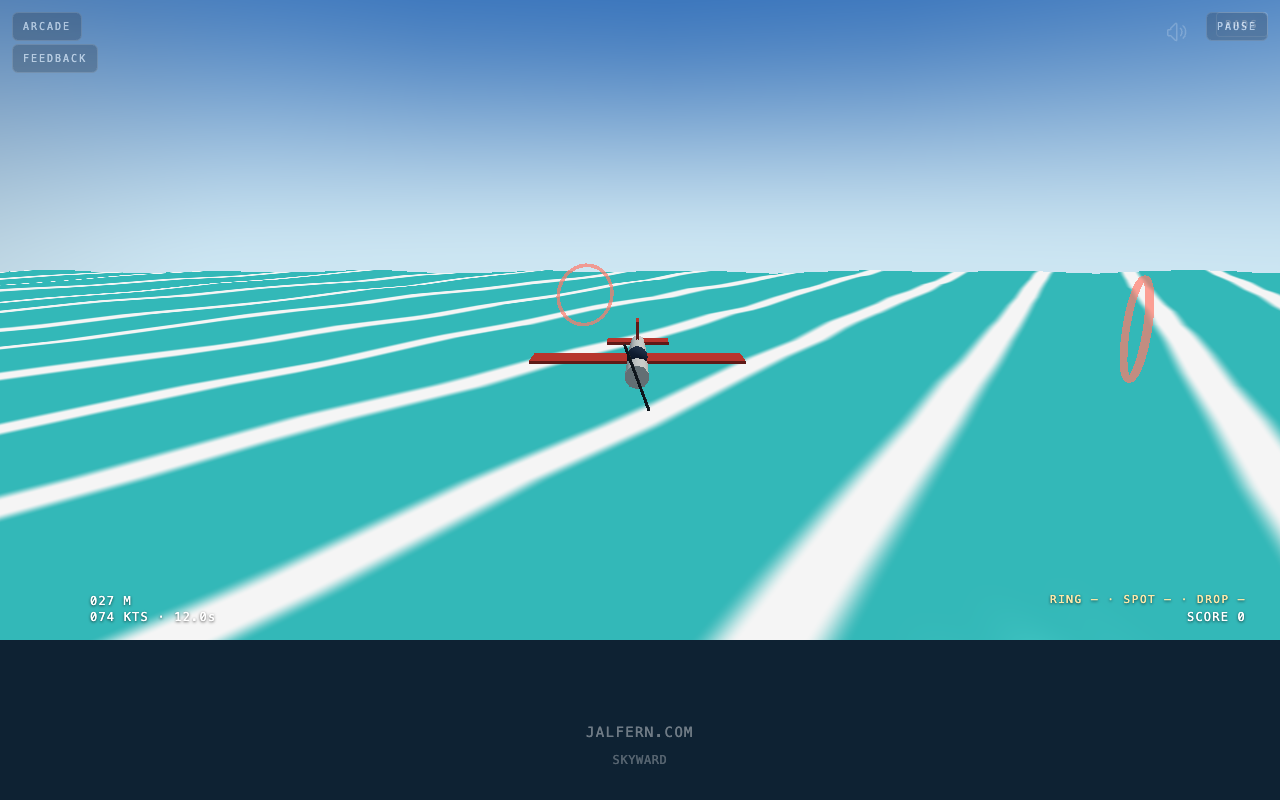
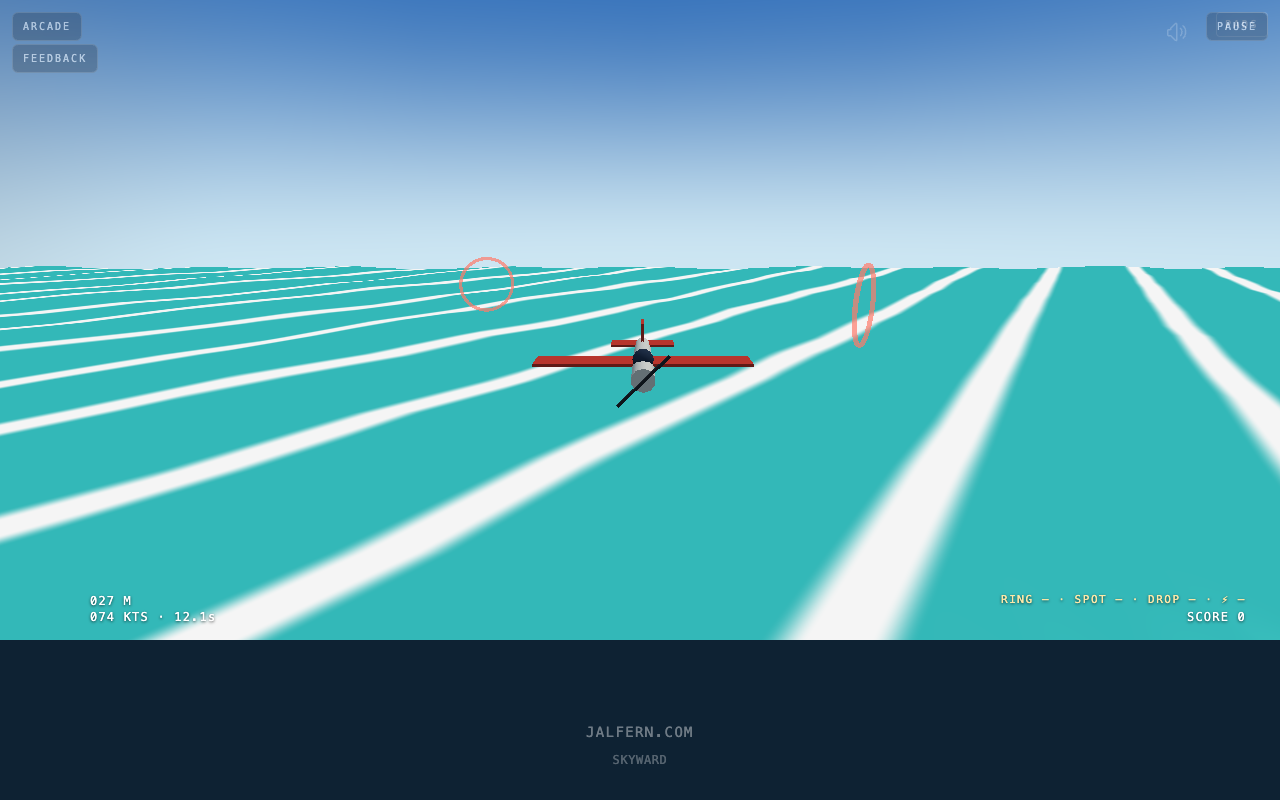
Skyward rung 2 visuals: violet storm gates + THUNDERPASS beacon, fog closure in the cell, drifting cumuli, HUD chip/hints/badge, registry copy, browser drive + frame strip

Changed region(s): [[0.0, 0.3125, 1.0, 0.8125], [0.7812, 0.7188, 0.9688, 0.7812], [0.0, 0.5312, 0.0312, 0.5625]]

diff --git a/src/games/Skyward/index.jsx b/src/games/Skyward/index.jsx
@@ -50,7 +50,7 @@ const SkywardGame = () => {
 <div data-h="speed" style="position:absolute;left:90px;bottom:14px;letter-spacing:.1em">000 KTS</div>
 <div data-h="alt" style="position:absolute;left:90px;bottom:30px;letter-spacing:.1em">000 M</div>
 <div data-h="score" style="position:absolute;right:34px;bottom:14px;letter-spacing:.1em;text-align:right">SCORE 0</div>
-<div data-h="chips" style="position:absolute;right:34px;bottom:32px;letter-spacing:.14em;text-align:right;font-size:11px;color:#ffe9a8">RING — · SPOT — · DROP —</div>
+<div data-h="chips" style="position:absolute;right:34px;bottom:32px;letter-spacing:.14em;text-align:right;font-size:11px;color:#ffe9a8">RING — · SPOT — · DROP — · ⚡—</div>
 <div data-h="banner" style="position:absolute;left:50%;top:56px;transform:translateX(-50%);font-size:22px;letter-spacing:.22em;opacity:0;transition:opacity .25s;text-align:center"></div>
 <div data-h="hint" style="position:absolute;left:50%;bottom:70px;transform:translateX(-50%);font-size:11px;letter-spacing:.18em;color:#cfe6ff;opacity:.9;text-align:center"></div>`
         wrap.style.position = 'relative'
@@ -70,7 +70,11 @@ const SkywardGame = () => {
         const sfxFor = (g, e) => {
             switch (e.kind) {
                 case 'ring': tone(660 + e.idx * 60, 0.09, 'square', 0.09); break
-                case 'start': sweep(320, 780, 0.28, 'triangle', 0.1); break
+                case 'gate': tone(392 + e.idx * 74, 0.12, 'triangle', 0.1); break
+                case 'start':
+                    if (e.event === 'THUNDERPASS') audioController.playFilteredNoise(1.1, 0.32, 90) // thunderclap entrance
+                    else sweep(320, 780, 0.28, 'triangle', 0.1)
+                    break
                 case 'finish': tone(660, 0.1); tone(880, 0.1, 'square', 0.09, 0.11); tone(1174, 0.16, 'square', 0.09, 0.22); break
                 case 'graduate': audioController.playFanfare(); break
                 case 'crash': audioController.playFilteredNoise(0.4, 0.3, 260); break
@@ -90,6 +94,7 @@ const SkywardGame = () => {
             for (const e of g.events) {
                 sfxFor(g, e)
                 if (e.kind === 'ring') banner(`RING ${e.idx}/8`, 1.1)
+                if (e.kind === 'gate') banner(e.idx === 1 ? 'GATE 1/5 — ENTER THE STORM' : `GATE ${e.idx}/5`, 1.2)
                 if (e.kind === 'start') banner(e.event, 2.2)
                 if (e.kind === 'finish') banner(`${e.event} — ${e.gained}`, 2.6)
                 if (e.kind === 'graduate') banner(`LICENSE: ${e.license} — ${e.score}`, 4)
@@ -174,7 +179,7 @@ const SkywardGame = () => {
                         step(gs, padNow())
                         drain(gs)
                         if (gs.done) {
-                            setOver({ score: gs.score, license: gs.license })
+                            setOver({ score: gs.score, license: gs.license, stormWings: gs.stormWings })
                             setMode('over')
                         }
                     } else {
@@ -194,13 +199,14 @@ const SkywardGame = () => {
             const shown = sc === 'attract' ? null : gs
             E.score.textContent = shown ? `SCORE ${shown.score}` : ''
             E.chips.textContent = shown
-                ? `RING ${shown.grad.ring ?? '—'} · SPOT ${shown.grad.spot ?? '—'} · DROP ${shown.grad.drop ?? '—'}`
+                ? `RING ${shown.grad.ring ?? '—'} · SPOT ${shown.grad.spot ?? '—'} · DROP ${shown.grad.drop ?? '—'} · ⚡ ${shown.stormWings ? shown.grad.pass : '—'}`
                 : ''
-            if (sc === 'play' && shown.phase === 'ring') E.speed.textContent += ` · ${shown.eventT.toFixed(1)}s`
+            if (sc === 'play' && (shown.phase === 'ring' || shown.phase === 'pass')) E.speed.textContent += ` · ${shown.eventT.toFixed(1)}s`
             const hint = sc === 'play'
-                ? (shown.marker ? `${shown.marker === 'ring' ? 'RING RUN' : shown.marker === 'spot' ? 'SPOT LANDING' : 'TARGET DROP'} — PRESS SPACE`
+                ? (shown.marker ? `${shown.marker === 'ring' ? 'RING RUN' : shown.marker === 'spot' ? 'SPOT LANDING' : shown.marker === 'pass' ? 'THUNDERPASS' : 'TARGET DROP'} — PRESS SPACE`
                     : shown.phase === 'drop' ? 'A THRUST · B DROP · land at the pads'
-                        : shown.phase === 'free' ? `CRUISE · markers glow near launches · B at school recycles craft` : '')
+                        : shown.phase === 'pass' ? `GATE ${shown.passIdx}/5 · fight the gusts · the core pulls down`
+                            : shown.phase === 'free' ? `CRUISE · markers glow near launches · B at school recycles craft` : '')
                 : ''
             if (E.hint.textContent !== hint) E.hint.textContent = hint
             if (bannerRef.current.until && performance.now() > bannerRef.current.until) {
@@ -248,13 +254,14 @@ const SkywardGame = () => {
                 getState: () => [
                     `screen=${screenRef.current} phase=${gs.phase} craft=${gs.craft}`,
                     `pos=${gs.p.x.toFixed(0)},${gs.p.y.toFixed(0)},${gs.p.z.toFixed(0)} hdg=${(gs.heading * 57.3).toFixed(0)}° spd=${gs.speed.toFixed(1)} vy=${gs.vy.toFixed(1)}`,
-                    `rings=${gs.ringsPassed} dropIdx=${gs.dropIdx} grad=${JSON.stringify(gs.grad)} score=${gs.score}`,
+                    `rings=${gs.ringsPassed} pass=${gs.passIdx} dropIdx=${gs.dropIdx} grad=${JSON.stringify(gs.grad)} score=${gs.score}`,
                     `marker=${gs.marker ?? '-'} crashes=${gs.crashes} seed=${gs.seed}`,
                 ],
                 actions: [
                     { label: 'ring', run: () => (checkout(gs, 'ring'), 'ring run') },
                     { label: 'spot', run: () => (checkout(gs, 'spot'), 'spot') },
                     { label: 'drop', run: () => (checkout(gs, 'drop'), 'drop') },
+                    { label: 'thunder', run: () => (checkout(gs, 'pass'), 'thunderpass') },
                     { label: 'recycle', run: () => (recycleCraft(gs), gs.craft) },
                     { label: 'graduate', run: () => { gs.grad = { ring: 800, spot: 700, drop: 999 }; gs.score = 2499; gs.done = true; gs.license = 'ACE'; setOver({ score: 2499, license: 'ACE' }); setMode('over') } },
                 ],
@@ -294,6 +301,9 @@ const SkywardGame = () => {
             {over && (
                 <div className="absolute inset-0 flex flex-col items-center justify-center bg-black/60">
                     <div className="text-3xl font-black tracking-[0.25em] text-amber-300">{over.license} LICENSE</div>
+                    {over.stormWings && (
+                        <div className="mt-2 text-sm font-bold tracking-[0.3em] text-violet-300">⚡ STORM WINGS ⚡</div>
+                    )}
                     <div className="mt-3 text-lg tracking-[0.2em] text-white">FINAL SCORE {over.score}</div>
                     <div className="mt-2 text-xs tracking-[0.2em] text-white/70">INSTRUCTORS VOSS · NIMBUS · PIP SALUTE YOU</div>
                     <div className="mt-8 text-[11px] tracking-[0.25em] text-white/70 animate-pulse">ANY KEY · TAP TO FLY AGAIN</div>

diff --git a/src/games/Skyward/renderer.js b/src/games/Skyward/renderer.js
@@ -198,9 +198,11 @@ void main(){
         return sp
     }
     const rngp = (n) => ((Math.sin(n * 127.1) * 43758.5453) % 1 + 1) % 1
+    const thermalClouds = []
     world.thermals.forEach((c, i) => {
-        addCloud(c.x, 96 + i * 7, c.z, 110, 0xffffff)
-        addCloud(c.x + 26, 104 + i * 5, c.z - 18, 74, 0xf4f8ff)
+        const a = addCloud(c.x, 96 + i * 7, c.z, 110, 0xffffff)
+        const b = addCloud(c.x + 26, 104 + i * 5, c.z - 18, 74, 0xf4f8ff)
+        thermalClouds.push({ c, sprites: [a, b] })
     })
     for (let i = 0; i < 14; i++) {
         const a = rngp(i * 3 + 1) * Math.PI * 2
@@ -247,6 +249,17 @@ void main(){
         return mesh
     })
     const padBands = []
+    // thunderpass gates — violet torus rings through the cell, facing along
+    // the line (same orientation discipline as the bay rings)
+    const passMeshes = world.passRings.map((p, i) => {
+        const prev = i > 0 ? world.passRings[i - 1] : { x: p.x - 100, z: p.z }
+        const next = i < world.passRings.length - 1 ? world.passRings[i + 1] : { x: p.x + 100, z: p.z }
+        const mesh = new THREE.Mesh(new THREE.TorusGeometry(11, 0.6, 8, 36), new THREE.MeshBasicMaterial({ color: 0xb39cff, transparent: true, opacity: 0.8 }))
+        mesh.position.set(p.x, p.y, p.z)
+        mesh.rotation.y = Math.atan2(next.x - prev.x, next.z - prev.z)
+        scene.add(mesh)
+        return mesh
+    })
     for (let i = 0; i < 4; i++) {
         const rr = [4.5, 9, 15, 24][i]
         const band = new THREE.Mesh(
@@ -286,6 +299,7 @@ void main(){
         ring: markerBeam(r0.x, r0.z - 150, 0xffd23f, 'RING RUN', 0),
         spot: markerBeam(world.launch.x, world.launch.z, 0x59d7ff, 'SPOT LANDING'),
         drop: markerBeam(world.school.x + 30, world.school.z + 40, 0x6ee7a0, 'TARGET DROP'),
+        pass: markerBeam(world.passStart.x, world.passStart.z, 0xb06bff, 'THUNDERPASS'),
     }
 
     // dock
@@ -403,7 +417,11 @@ void main(){
         seaMat.uniforms.uCam.value.copy(camera.position)
         skyMat.uniforms.uFlash.value = g.crashes && world.stormFlash(t) ? world.stormFlash(t) : world.stormFlash(t)
         const flash = world.stormFlash(t)
-        hemi.intensity = 1.1 + flash * 1.4
+        // inside the cell the grey closes in: fog shuts down to gate distance
+        const sS = g.stormS || 0
+        hemi.intensity = 1.1 + flash * 1.4 - sS * 0.5
+        scene.fog.near = lerp(600, 130, sS)
+        scene.fog.far = lerp(2100, 760, sS)
 
         // rain
         const rp = rainGeo.attributes.position
@@ -414,9 +432,18 @@ void main(){
         }
         rp.needsUpdate = true
 
-        // thermals pulse
+        // thermals pulse + drift (rung 2: the cloud IS the lift, same thermalPos)
         for (let i = 0; i < thermCols.length; i++) {
-            const pulse = world.thermalLift(world.thermals[i].x, world.thermals[i].z, t)
+            const th = world.thermals[i]
+            const tp = world.thermalPos(th, t)
+            const tc = thermalClouds[i]
+            if (tc) {
+                tc.sprites[0].position.x = tp.x; tc.sprites[0].position.z = tp.z
+                tc.sprites[1].position.x = tp.x + 26; tc.sprites[1].position.z = tp.z - 18
+            }
+            thermCols[i].position.x = tp.x
+            thermCols[i].position.z = tp.z
+            const pulse = world.thermalLift(tp.x, tp.z, t)
             thermCols[i].material.opacity = 0.035 + pulse * 0.02
             thermCols[i].rotation.y = t * 0.1
         }
@@ -430,12 +457,20 @@ void main(){
             else if (doneI && g.phase === 'ring') { m.color.setHex(0x3ddc84); m.opacity = 0.8; m.transparent = true }
             else { m.color.setHex(0xff7a6a); m.opacity = 0.7; m.transparent = true }
         }
+        // thunderpass gates: same active/passed language as the bay rings
+        for (let i = 0; i < passMeshes.length; i++) {
+            const m = passMeshes[i].material
+            if (g.phase === 'pass' && i === g.passIdx) { m.color.setHex(0xffd23f); m.opacity = 0.85 + 0.15 * Math.sin(t * 7) }
+            else if (g.phase === 'pass' && i < g.passIdx) { m.color.setHex(0x3ddc84); m.opacity = 0.8 }
+            else if (g.stormWings) { m.color.setHex(0x3ddc84); m.opacity = 0.55 }
+            else { m.color.setHex(0xb39cff); m.opacity = 0.7 }
+        }
         // beacons: pulse when relevant marker is active
         const near = g.marker
         Object.entries(beacons).forEach(([k, bE]) => {
             const on = near === k
             bE.children[0].material.opacity = on ? 0.5 + 0.25 * Math.sin(t * 6) : 0.16
-            bE.visible = !(g.phase !== 'free' && !on && k !== (g.phase === 'ring' ? 'ring' : g.phase === 'spot' ? 'spot' : 'drop'))
+            bE.visible = !(g.phase !== 'free' && !on && k !== (g.phase === 'ring' ? 'ring' : g.phase === 'spot' ? 'spot' : g.phase === 'pass' ? 'pass' : 'drop'))
         })
 
         // craft pose

diff --git a/src/config/games.js b/src/config/games.js
@@ -1404,7 +1404,7 @@ export const GAMES = [
         component: SkywardGame,
         label: 'SKYWARD',
         theme: 'dark',
-        description: 'A flight school in the spirit of Pilotwings (Nintendo, 1991), wholly our own: three craft, three exams, one seeded island — Gullwing Isle, built from the forge\'s own ocean, SHORE, mountain and thunderstorm demos, so the swell the plane skims over and the thermals the glider climbs are the same analytic fields the GPU draws. The PLANE threads a RING RUN of eight glowing gates over the bay (+100 a ring, time bonus under par 30 s); the HANG GLIDER launches off the saddle and soars the four thermal columns down onto the bullseye — dead centre is 1000, the sand is free; the ROCKET BELT skims the surf line at mast height and drops supply crates on three beach pads, accuracy paying 333 deep to 111 wide. Banked all three once and the instructors VOSS, NIMBUS and PIP stamp your LICENSE — STUDENT, WINGS at 1500, ACE at 2400. Between exams the island is a toy: free flight is the resting state, the storm cell east of the isle gusts and lights up, and the school apron recycles craft (B at the dock hands you the next one). Crashes are school-forgiving — the ground crew ferries you back. Seeded and deterministic (seed + pads ⇒ identical hashes): the attract mode flies the same autopilot skywardcheck graduates on, across five seeds and both pad types.',
-        controls: ['Left stick / arrows: bank and pitch on all three craft — up = nose up', 'SPACE / A: context — start the exam at a glowing marker; HELD on the rocket belt: thrust', 'B / DROP: drop a supply crate (belt) · at the school apron in free flight: recycle to the next craft', 'RING RUN: thread the eight rings in order — only the pulsing gold gate counts', 'SPOT LANDING: hunt lift under the cumuli, flare onto the bullseye — soft and slow', 'TARGET DROP: hover low and still over a pad before you let a crate go — drift costs', 'The storm east of the isle gusts, sinks and flashes — soaring through it is your own business', 'Crash and the ground crew ferries you back; the school keeps your best exam score', 'Attract: any key or tap starts training; all three exams banked = LICENSE', '?: pause and read the syllabus'],
+        description: 'A flight school in the spirit of Pilotwings (Nintendo, 1991), wholly our own: three craft, three exams, one seeded island — Gullwing Isle, built from the forge\'s own ocean, SHORE, mountain and thunderstorm demos, so the swell the plane skims over and the thermals the glider climbs are the same analytic fields the GPU draws. The PLANE threads a RING RUN of eight glowing gates over the bay (+100 a ring, time bonus under par 30 s); the HANG GLIDER launches off the saddle and soars the four thermal columns down onto the bullseye — dead centre is 1000, the sand is free; the ROCKET BELT skims the surf line at mast height and drops supply crates on three beach pads, accuracy paying 333 deep to 111 wide. Banked all three once and the instructors VOSS, NIMBUS and PIP stamp your LICENSE — STUDENT, WINGS at 1500, ACE at 2400. Between exams the island is a toy: free flight is the resting state, and the storm cell east of the isle is now a COURSE — the THUNDERPASS drives five violet gates through the cell: in at the rising west edge, down through the core downdraft, out the east exit (+140 a gate, time bonus to 300 under par 30 s; clear all five and the licence card sports STORM WINGS). The thermals drift with the sea-breeze, cloud and lift moving as one field. The school apron recycles craft (B at the dock hands you the next one). Crashes are school-forgiving — the ground crew ferries you back. Seeded and deterministic (seed + pads ⇒ identical hashes): the attract mode flies the same autopilot skywardcheck graduates on, across five seeds and both pad types.',
+        controls: ['Left stick / arrows: bank and pitch on all three craft — up = nose up', 'SPACE / A: context — start the exam at a glowing marker; HELD on the rocket belt: thrust', 'B / DROP: drop a supply crate (belt) · at the school apron in free flight: recycle to the next craft', 'RING RUN: thread the eight rings in order — only the pulsing gold gate counts', 'SPOT LANDING: hunt lift under the cumuli, flare onto the bullseye — soft and slow', 'TARGET DROP: hover low and still over a pad before you let a crate go — drift costs', 'THUNDERPASS: at the violet beacon east of the bay, SPACE starts five gates driven through the storm cell — fight the gusts, ride down through the core, climb out east; all five = STORM WINGS', 'Crash and the ground crew ferries you back; the school keeps your best exam score', 'Attract: any key or tap starts training; all three exams banked = LICENSE', '?: pause and read the syllabus'],
     },
 ]

diff --git a/src/games/Skyward/sim.js b/src/games/Skyward/sim.js
@@ -452,7 +452,7 @@ export function stateOf(g) {
         ringsPassed: g.ringsPassed, eventT: +g.eventT.toFixed(2),
         grad: { ...g.grad }, license: g.license, crashes: g.crashes,
         dropped: g.dropped.length, marker: g.marker ?? null,
-        passIdx: g.passIdx, stormWings: !!g.stormWings,
+        passIdx: g.passIdx, stormWings: !!g.stormWings, stormS: +g.stormS.toFixed(2),
         hash: g.hash, seed: g.seed,
     }
 }

diff --git a/src/games/Skyward/attract.js b/src/games/Skyward/attract.js
@@ -6,5 +6,6 @@ export const MESSAGES = [
     'RING RUN — THREAD EIGHT RINGS, BEAT THE PAR',
     'SPOT LANDING — RIDE THERMALS TO THE BULLSEYE',
     'TARGET DROP — SKIM THE SURF, HIT THE PADS',
+    'THUNDERPASS — FIVE GATES THROUGH THE STORM CELL',
     'ALL THREE BANKED = YOUR WINGS. ACE AT 2400',
 ]

diff --git a/src/games/Skyward/README.md b/src/games/Skyward/README.md
@@ -1,21 +1,27 @@
-# SKYWARD — flight school on Gullwing Isle (#3105 rung 1)
+# SKYWARD — flight school on Gullwing Isle (#3105, rungs 1–2)
 
-MODERN. Pilotwings-in-spirit, own IP: three craft, three school events, free
+MODERN. Pilotwings-in-spirit, own IP: three craft, four school events, free
 flight over an island built from the forge's own ocean/SHORE/mountain/storm
 demo tech. One Gerstner swell table drives the water shader AND the sim's wave
-skim (`world.waterGLSL()` emits the same constants the CPU reads).
+skim (`world.waterGLSL()` emits the same constants the CPU reads). Rung 2 made
+the thunderstorm a course (THUNDERPASS) and set the thermals drifting.
 
 ## Layout
 - `world.js` — pure island: seeded fbm terrain with an explicit coastal shelf
   + carved course flats + a low supply corridor (the belt's route), the shared
-  Gerstner field, thermals, the storm cell. Seed in, deterministic out.
+  Gerstner field, thermals (drifting with the sea-breeze via `thermalPos(c,t)`
+  — the ONE answer for sim lift, autopilot target and painted cumulus), the
+  storm cell and the THUNDERPASS gate line (`passStart`, `passRings`).
 - `sim.js` — 60 Hz pure sim (zero DOM, zero Math.random): plane / glider /
-  belt physics, RING RUN / SPOT LANDING / TARGET DROP scoring, graduation.
-  Exports `checkout`/`recycleCraft` so the harness and the F1 panel skip the
-  approach flight.
+  belt physics, RING RUN / SPOT LANDING / TARGET DROP / THUNDERPASS scoring,
+  graduation. The storm fights the PLANE too (rung 2): gusts, ~2 m/s core
+  downdraft, buffet. Exports `checkout`/`recycleCraft` so the harness and the
+  F1 panel skip the approach flight.
 - `planner.js` — the autopilot: proportional ring-seeking for the plane,
   spiral-release soaring for the glider, two-band hover + brake-drop for the
-  belt. Attract flies it; `skywardcheck` graduates on it.
+  belt, storm-aware seeking for THUNDERPASS (aims above the gate while the
+  core downdraft pulls; graduates all five seeds). Attract flies it;
+  `skywardcheck` graduates on it.
 - `renderer.js` — three.js: gradient sky + sun glitter, Gerstner vertex-shader
   sea with fresnel/crest/shoreline foam, vertex-coloured terrain (sand→grass→
   rock→snow), billboard cumuli + a rain-shaft storm cell with lightning,
@@ -26,7 +32,8 @@ skim (`world.waterGLSL()` emits the same constants the CPU reads).
 ## Controls
 Stick/arrows bank + pitch (up = climb) on all three craft; SPACE = context
 (start event at a marker / belt thrust); B = drop crate / recycle craft at
-the school apron. Full rule text lives in the PauseOverlay (`?`).
+the school apron. The violet beacon east of the bay starts THUNDERPASS in
+the plane. Full rule text lives in the PauseOverlay (`?`).
 
 ## Verify
 ```
@@ -35,10 +42,12 @@ npm run skywardcheck         # Node: geometry, rules, graduation × seeds, deter
 npm run skywardcheck -- --mutate   # proves the harness can fail
 node scripts/skywardplay.mjs       # headless Chrome: boot → play → events → zero page errors
 ```
-## Honest gaps (rung 1)
-- One island; the storm is weather, not a course (the issue's second,
-  lap-varying-swell island is a later rung).
-- Thermals are analytic columns, not sim'd convvection; cumuli sit above them
-  but do not move.
-- No online (issue: not yet), no second landing strip, engine audio is
-  per-action rather than a continuous loop.
+## Honest gaps
+- Rung 2: the storm cell itself stands still (the gates are fixed; thermals
+  drift, the thunderhead does not). No online (issue: not yet), no second
+  landing strip, engine audio is per-action rather than a continuous loop.
+- Lightning is scenery — no strike hazard anywhere (by design, the school
+  forgives; the downdraft is the punishment).
+- Thermals are analytic columns, not sim'd convection.
+- A straight-and-level keyboard line dunks at the core — that's the course,
+  but a first THUNDERPASS attempt crashes more than the ring run does.
